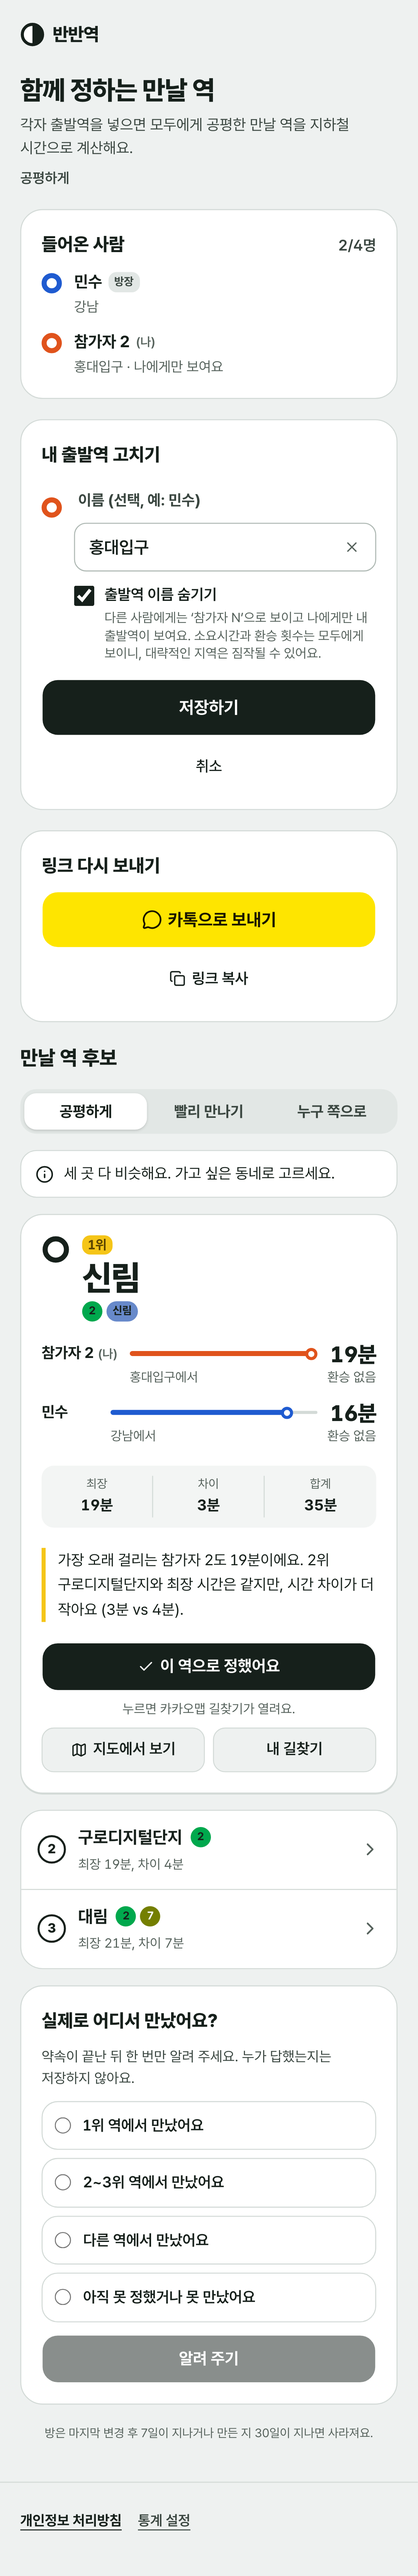
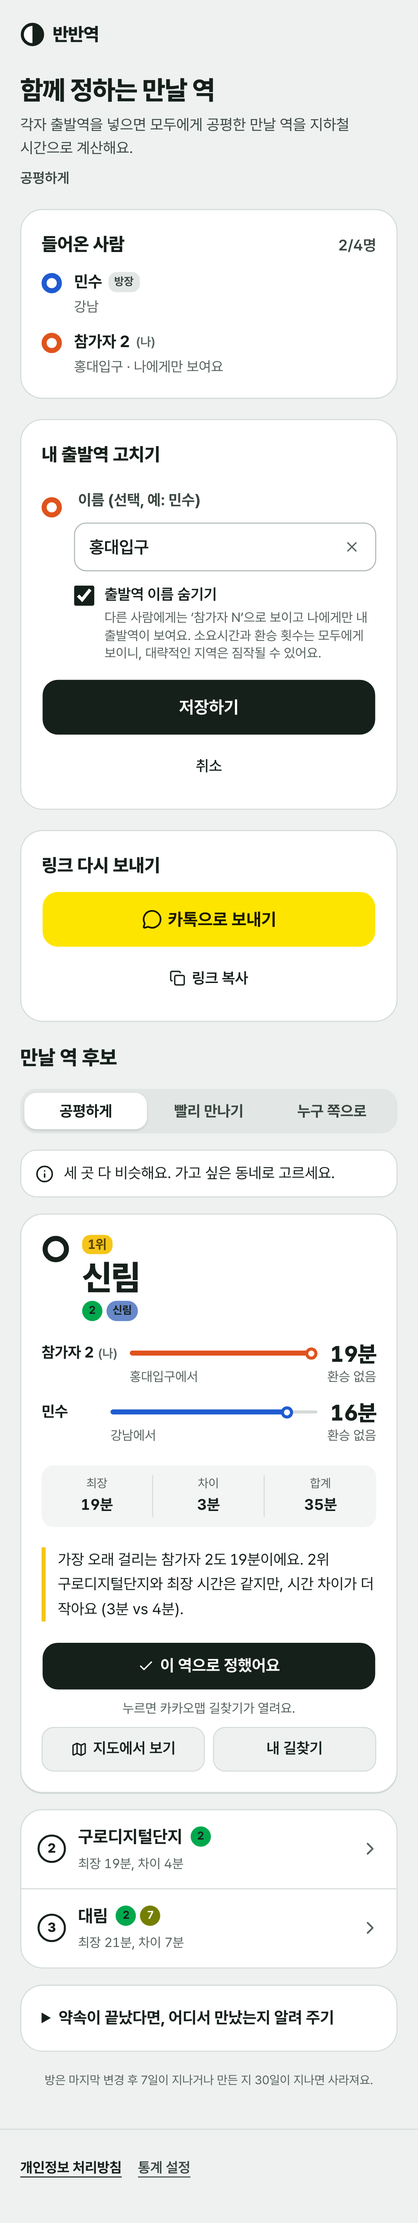
docs(r1): 방 화면 작업 노트·화면 캡처, e2e 접근성·CSP 확인

diff --git a/docs/setup/r1-notes.md b/docs/setup/r1-notes.md
@@ -1,0 +1,109 @@
+# R1 작업 노트: 웹 방(각자 입력) 화면
+
+검증일: 2026-11-15. 서버의 방 API는 그대로 쓰고(변경 없음), 웹에 방 흐름을 붙였다. 화면 캡처는 [`r1-screens/`](r1-screens/).
+
+## 1. 흐름
+
+```
+홈 ──"친구가 각자 입력하게 하기"──▶ /r/new (방장: 이름·출발역·숨기기, 추천 기준, 약속일·예상 인원)
+        └─ 방 만들기 ─▶ /r/<방 ID> (방장 화면: 링크 보내기 → 친구가 들어오면 목록·결과)
+친구: 링크 /r/<방 ID> ─▶ 참여(이름·출발역·숨기기) ─▶ 목록·결과 ─▶ 수정·삭제 ─▶ "실제로 어디서 만났어요?"
+```
+
+- **방 화면 한 곳**(`/r/[roomId]`)이 친구의 첫 화면이자 방장이 돌아오는 화면이다. 이 기기의 토큰으로 "내 항목"(참여자)과 방장 기능을 구분한다.
+- 참여 상태: 내 항목 있음(수정·삭제) / 참여 가능 / 잠김 / 정원(4명) 초과 / 없는 방(만료·삭제·없는 ID는 서버가 같은 404). 이미 들어온 사람은 방이 잠겨도 자기 항목을 고칠 수 있다.
+- 목록의 이름은 서버 `label` 그대로, "(나)"는 내 토큰이 가리키는 줄에만. 숨긴 사람은 "참가자 N"·"출발역 비공개"이고 시간·환승은 보인다. 본인이 숨겼으면 본인에게만 "강남 · 나에게만 보여요".
+- 결과는 서버 `/rooms/{id}/result`(토큰 있으면 본인 출발역 포함). 모드 탭은 보는 사람의 화면 설정이고 처음 값은 방의 추천 기준·배려 대상이다(방 설정을 PATCH하지는 않는다). 후보 카드는 기존 결과 화면 컴포넌트를 그대로 쓴다.
+- 방장 기능: 새 참여 잠그기/풀기, 방 삭제, 참여자 내보내기(처리방침 8항이 이미 약속한 기능). 모두 한 번 더 확인한다.
+- "실제로 어디서 만났어요?"(`/outcome`): 참여자에게만. 약속일을 정했으면 펼쳐서, 안 정했으면 접어서 보여 준다. 한 번 답하면 이 기기에서는 다시 묻지 않는다.
+- 갱신: 방·결과를 15초마다(탭이 보일 때만)·창 포커스 때 다시 불러 친구가 들어오는 것이 보인다. 요청은 분당 약 8회로 서버 일반 한도(분당 60) 안이다.
+
+## 2. 토큰 저장 (코디네이터 결정: tech-stack 5.5 원래 계획)
+
+| 항목 | 결정 |
+|---|---|
+| 위치 | `localStorage` 키 `bby.room.<방 ID 소문자>` 하나에 JSON `{v, hostToken?, participantToken?, participantId?, expiresAt, resultSeenAt?, outcomeAnswered?}` |
+| deviceToken | 쓰지 않는다(`/v1/anon` 호출 없음) → **쿠키 없음, 프록시 변경 없음** |
+| 만료 정리 | 서버가 준 `expiresAt`을 저장하고(방을 불러올 때마다 갱신: 서버는 활동 시 만료를 미룬다), 지난 기록·깨진 기록은 어느 화면을 열든 한 번 지운다(`Providers`) + 읽을 때 그 자리에서 지운다. 방이 없다(404)고 확인되면 바로 지운다 |
+| 정리 규칙 | 내 항목을 지우거나 내보내지면 참여자 토큰만 지운다(방장 토큰이 없으면 기록 전체). 방을 지우면 전체 삭제 |
+| 막힌 저장소 | 읽기·쓰기 모두 try/catch. 막혀 있으면 만들기·참여 화면에 "이 기기에서 나중에 고칠 수 없다"고 미리 알린다 |
+| 토큰이 가는 곳 | `Authorization: Bearer` 헤더뿐이다. URL·본문·통계·미리보기·로그에 넣지 않는다(`rooms.test.ts`가 6개 호출 모두에서 URL·본문에 토큰이 없음을 확인). 방 링크는 `/r/<방 ID>` 하나다 |
+| 토큰 없는 구경꾼 | 방을 보고(숨김 적용된 목록) 결과를 보고 참여는 할 수 있다(계약대로) |
+| 같은 방 대소문자 | 서버가 ID를 소문자로 저장하므로 키도 소문자로 맞춘다 |
+| 기억해 둔 "나" | `banbanyeok:me`(기존)를 방 만들기·참여 때도 미리 채우고 저장한다. 숨기기 설정은 기억하지 않는다 |
+
+방 안에서 낡은 토큰 처리: 기록에는 참여자 토큰이 있는데 방 응답에 `isSelf`가 없으면(내보내짐·삭제) 토큰을 정리하고 참여 가능 상태로 돌아간다. **방장 토큰으로 받은 방 응답은 `isSelf`가 없으므로 캐시에 넣지 않는다**(PATCH 응답을 캐시에 넣었다가 이 검사가 내 토큰을 지우던 버그를 e2e로 잡았다).
+
+## 3. 콜드스타트
+
+- 방 화면과 방 만들기 화면은 열리자마자(`useEffect` 첫 줄) `warmUpServer()`를 부른다. 방 조회는 저장소를 읽은 직후 시작한다.
+- 첫 로딩 중에는 제목·설명이 먼저 읽히고, 카드 안 문구가 단계적으로 바뀐다(`use-slow-hint.ts`): 즉시 "방을 불러오기 중이에요" → 2.5초 "서버를 깨우는 중이에요. 방을 불러오기까지 몇 초 걸릴 수 있어요" → 8초 "조금 오래 걸리네요…". 참여·방 만들기 제출도 같은 단계 문구.
+- 재시도: 5xx·연결 실패만 최대 2회(0.5·1초 간격보다 길게: 1·2초), 4xx는 하지 않는다. 프록시 타임아웃은 15초(P8b).
+- e2e(`rooms.spec.ts` 4번째)가 방 조회를 4초 지연시켜 ① healthz가 방 응답보다 먼저 나가고 ② 문구가 바뀌는 것을 확인한다.
+
+## 4. 링크 미리보기(OG)
+
+`/r/[roomId]`·`/r/new`는 `roomLinkMetadata()`(인자 없음): 제목 "같이 만날 역 정해요", 설명 "각자 출발역을 넣으면 …", 이미지는 사이트 기본 정적 PNG(`/opengraph-image`), `noindex`. **서버를 부르지 않고 방 ID·이름·출발역이 들어갈 길이 없다**(숨기기 보장, 요청마다 이미지를 그리지 않아 Workers 무료 CPU 한도 문제도 없다). 페이지 자체도 서버 렌더링이 얇다(서버 호출·스트리밍 없음, 형식이 틀린 ID는 서버에 묻지 않고 "없는 방" 표시). 다만 라우트가 동적(ƒ)이라 요청마다 서버 렌더링을 한다: 실제 Workers CPU는 배포 계정에서 재야 한다(P8b 3절 `/s`가 중앙값 43ms였고 이 페이지는 서버 호출이 없어 더 작을 것으로 보지만 **미측정**).
+
+## 5. 통계 (동의한 경우에만, P7 규칙)
+
+| 이벤트 | 시점 | 속성 |
+|---|---|---|
+| `room_created` | 방 만들기 성공 직후 | `hidden_used`, `participant_count_expected`(정했을 때) |
+| `participant_joined` | 참여 성공 직후(방장 본인은 제외) | `hidden` |
+| `outcome_answered` | 만났나 답 성공 직후 | `outcome`, `meeting_station_code`(다른 역·1위 역일 때, 장소), `days_since_result`(이 기기에서 결과를 처음 본 뒤 일수) |
+| `share_clicked` | 방 링크 공유·복사 | `link_type=room` |
+| `result_viewed`·`mode_switched`·`station_chosen` | 기존 이벤트를 방 결과에서도 | 기존과 같음 |
+
+- **계약 변경**(`contracts/events.json`): `room_created`·`participant_joined`의 `source`를 `server`→`client_or_server`로(서버가 아직 통계를 보내지 않아 웹이 보낸다. 서버가 보내기 시작하면 중복을 피하려고 웹 쪽을 끈다), `participant_joined.seconds_since_room_created`를 선택 속성으로(방 조회 응답에 생성 시각이 없어 웹은 알 수 없다). `room_hash`는 서버가 응답에 주는 값을 쓰기로 했는데 응답에 없으므로 보내지 않는다.
+- **방 ID는 URL 속성에서도 지운다**: `redact.ts`가 `/r/<10자>`를 `/r/[room]`으로(현재·이전·진입 주소 모두). `$current_url`에 방 링크가 들어가면 방 ID가 통계에 남기 때문이다. 단위·e2e(`e2e-analytics`, 방 API를 가로채 흉내)로 방 ID·토큰·출발역·이름이 어떤 이벤트에도 없음을 확인한다.
+- 동의 전에는 요청 0건·저장소 흔적 0(`ph_*`)도 같은 e2e에서 확인한다.
+
+## 6. 개인정보 처리방침
+
+`policy.ts` 1항(방 기능 문장), 11항(표에 `bby.room.<방 ID>` 행 추가: 내용·목적·기간, 쿠키·기기 토큰은 쓰지 않음, 거부의 효과)을 사실대로 고쳤고 `docs/legal/privacy-policy.md`를 재생성했다. `privacy-policy-review.md`의 "방 화면 출시 전 갱신" 항목을 처리됨으로 표시했다. 동의 문구는 바뀌지 않아 `CONSENT_VERSION`은 그대로다.
+
+## 7. 구조 (계층 규칙 준수)
+
+```
+src/app/r/new, r/[roomId]       라우트(얇다)
+src/components/room/            create-form, room-screen, join-form, participant-fields, people-list, room-result,
+                                outcome-card, host-controls, confirm-action, room-states, use-slow-hint, use-idempotency-key
+src/lib/api/rooms.ts            방 API 호출(토큰은 헤더만, 오류는 ApiRequestError)
+src/lib/room/                   id, tokens(저장·정리), errors(문구·분기), input(요청 본문), dates(한국 시간), view, queries
+```
+
+만들기·참여는 `Idempotency-Key`를 쓴다: **같은 내용을 다시 보내는 재시도에는 같은 키**, 내용이 바뀌면 새 키(고친 입력이 이전 응답으로 재생되지 않게).
+
+## 8. 검증
+
+```text
+$ pnpm typecheck && pnpm lint && pnpm test && pnpm check:contracts   # 통과 (Vitest 45 파일 363 테스트)
+$ pnpm e2e                           # 기본 18개 + 통계 켠 빌드 12개 통과(방 통계 시나리오 1개 추가)
+$ (compose DB → migrate → seed → 서버 → next build/start) REAL_WEB_URL=… pnpm e2e:real
+  7 passed (기존 3 + rooms 4), 1 skipped(라이브 PostHog)
+```
+
+e2e-real `rooms.spec.ts`(모바일 Pixel 7, 컨텍스트 2~3개): ① 방 만들기 → 링크 복사 → 친구 참여(숨김) → 방장 화면이 새로 고침 없이 갱신 → 숨긴 출발역이 목록·결과·서버 응답 어디에도 없음(시간은 보임) → 구경꾼도 같은 숨김 → 친구가 숨기기를 풀고 수정 → 만났나 답(204)·재방문 시 다시 묻지 않음 → 친구 삭제 → 방장 방 삭제 → 링크가 "없는 방", 토큰 없음·axe 0·CSP 위반 0 ② 잠금·정원 초과·내보내기 ③ 없는 방·형식 틀린 주소(서버 호출 없음)·만료 기록 정리 ④ 콜드스타트.
+
+**서버 속도 제한 주의**: 방 만들기·참여는 IP당 버스트 10회다(`RATE_LIMIT_CREATE_BURST`, 하루 50). 이 e2e는 새 서버 기준 7회를 쓴다. 같은 서버로 반복 실행하면 429가 나므로 서버를 다시 띄우거나 `RATE_LIMIT_CREATE_BURST`를 올린다. CI의 `e2e-real`은 매번 새 서버라 영향이 없다.
+
+## 9. 번들 크기 (Worker, `wrangler deploy --dry-run`, 같은 환경에서 기준과 비교)
+
+| | raw | gzip |
+|---|---|---|
+| main(506af2a) | 11,725 KiB | 2,541.07 KiB |
+| 이 브랜치 | 12,439 KiB | **2,726.72 KiB** (+185.65 KiB) |
+
+무료 한도 3 MiB(3,072 KiB)까지 여유 약 345 KiB. 증가분은 방 라우트 2개(서버 번들에 화면 컴포넌트·zod 등이 실림)와 방 API 호출 코드다. 조합 SEO 페이지를 더 늘릴 여유(P8b 8-5)는 그만큼 줄었다.
+
+## 10. 결정 필요 / 한계
+
+1. **방 ID가 들어간 경로의 서버 렌더링 CPU**(위 4절): 실제 Workers 계정에서 측정 필요. 무료 플랜 유지 여부 결정(P8b 결정 1)과 함께 본다.
+2. **서버 계약 요청 1건(작은 것)**: `Room` 응답에 `createdAt`(또는 `room_hash`)을 넣어 주면 `participant_joined.seconds_since_room_created`·`room_hash`를 웹이 채울 수 있다. 지금은 생략한다.
+3. **`room_created`·`participant_joined`는 웹이 보낸다**(events.json의 source 변경). 서버가 통계를 붙이면 웹 쪽 전송을 끄거나 서버 쪽을 끌지 정해야 중복이 없다.
+4. **가짜 서버(`web/mock`)는 방을 구현하지 않는다**(501). `mise run dev:web:mock`에서 방 화면은 "서버에 연결하지 못했어요"가 된다. 방 화면 개발은 실제 서버(`mise run dev`)를 쓴다. 방을 가짜 서버에 넣을지는 필요할 때 정한다.
+5. **방 설정을 PATCH하지 않는다**: 추천 기준·배려 대상은 방 생성 때 정한 기본값이고, 이후 모드 탭은 보는 사람의 화면 설정이다(방장이 모두의 기본값을 바꾸는 기능은 없다). 방 생성 때 배려 대상은 계약상 방장뿐이다("내 쪽으로").
+6. **"내 방 목록"은 없다**(deviceToken 미사용 결정). 링크를 잃으면 브라우저 방문 기록으로 돌아와야 한다. 기기·브라우저를 바꾸면 내 항목은 고칠 수 없다(방장이 내보내고 다시 참여하는 우회, 처리방침 8항의 이메일 요청).
+7. **정원 안내 문구**: 서버는 `expectedCount`가 차면 `locked`로 응답해 "방장이 잠갔다"와 "인원이 찼다"를 구별할 수 없다. 두 경우를 한 문구로 안내한다.
+8. 결과가 길면(후보·방장 설정·만났나까지) 화면이 길어진다. 3인 이상 실제 사용 후 접기 등을 다듬을 수 있다.
